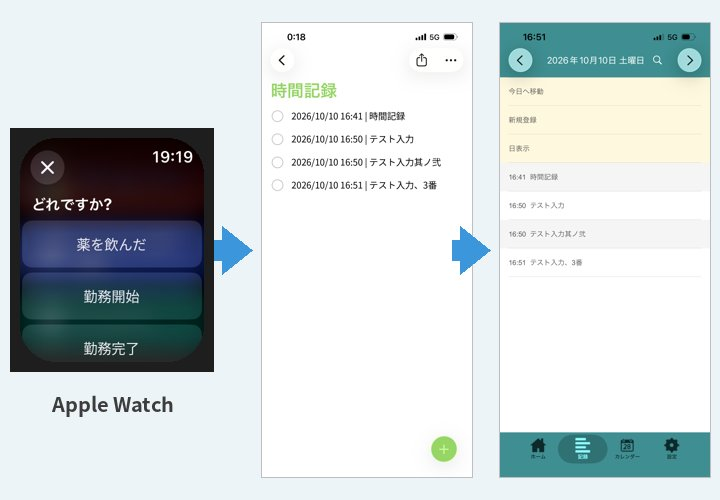
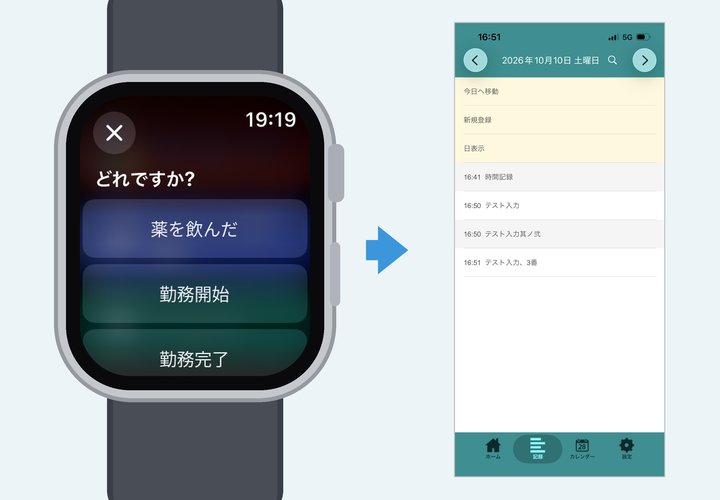
Apple Watch ページ: タイトル画像をウォッチ本体版に戻し(項目は新しい初期値)、取り込み中の注意書きを追加

diff --git a/timestampApp/jp/tips/watch_record.html b/timestampApp/jp/tips/watch_record.html
@@ -98,7 +98,8 @@
       <h2 class="ts-section-title">iPhone で取り込む</h2>
       <ol class="ts-steps">
         <li><img src="../img/watch_import1.jpg" alt="" loading="lazy"><p>ウォッチで記録したメモは、リマインダーの「時間記録」リストに「日時 | メモ」の形で並んでいます。(手で編集する必要はありません)</p></li>
-        <li><img src="../img/watch_import2.jpg" alt="" loading="lazy"><p>iPhone の「ショートカット」アプリで「時間記録取込」をタップします。</p></li>
+        <li><img src="../img/watch_import2.jpg" alt="" loading="lazy"><p>iPhone の「ショートカット」アプリで「時間記録取込」をタップします。</p>
+          <p class="ts-note">※ 記録が複数あるときは、1 件ずつ取り込むため時間記録アプリが何度か開いたり閉じたりします。故障ではありません。取り込み完了を知らせる振動があるまで、そのままお待ちください。</p></li>
         <li><img src="../img/watch_import3.jpg" alt="" loading="lazy"><p>時間記録アプリの「記録」を開くと、ウォッチでメモを取った時刻で記録が追加されています。<br>取り込んだリマインダーは「時間記録」リストから削除されます。</p></li>
       </ol>
 
